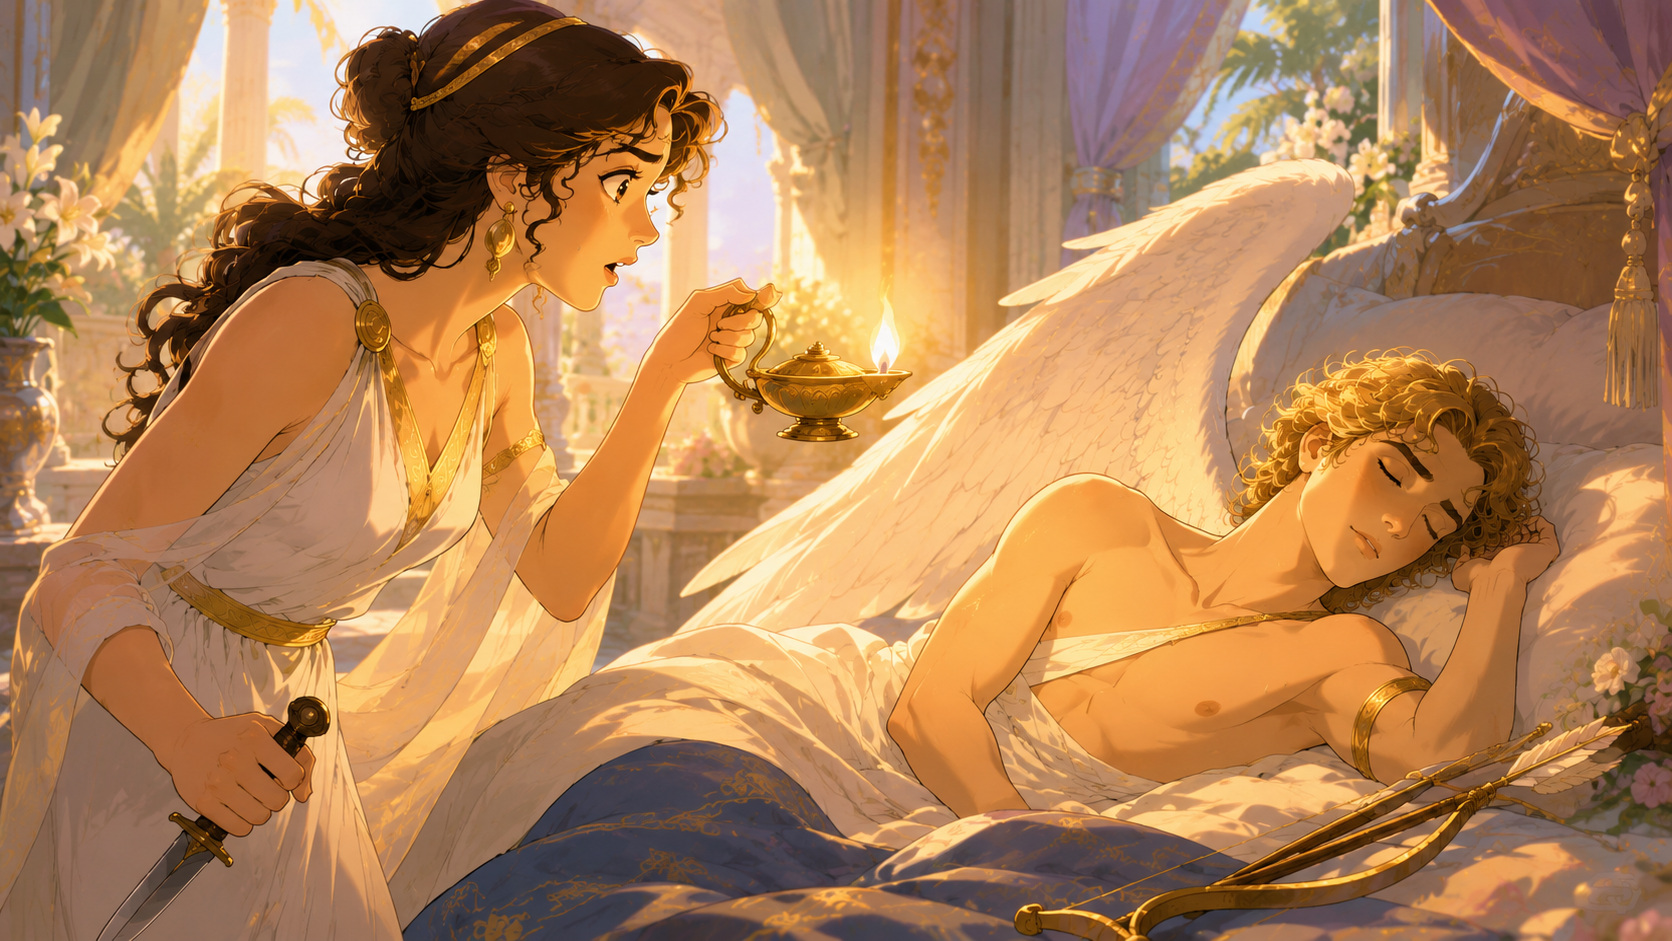
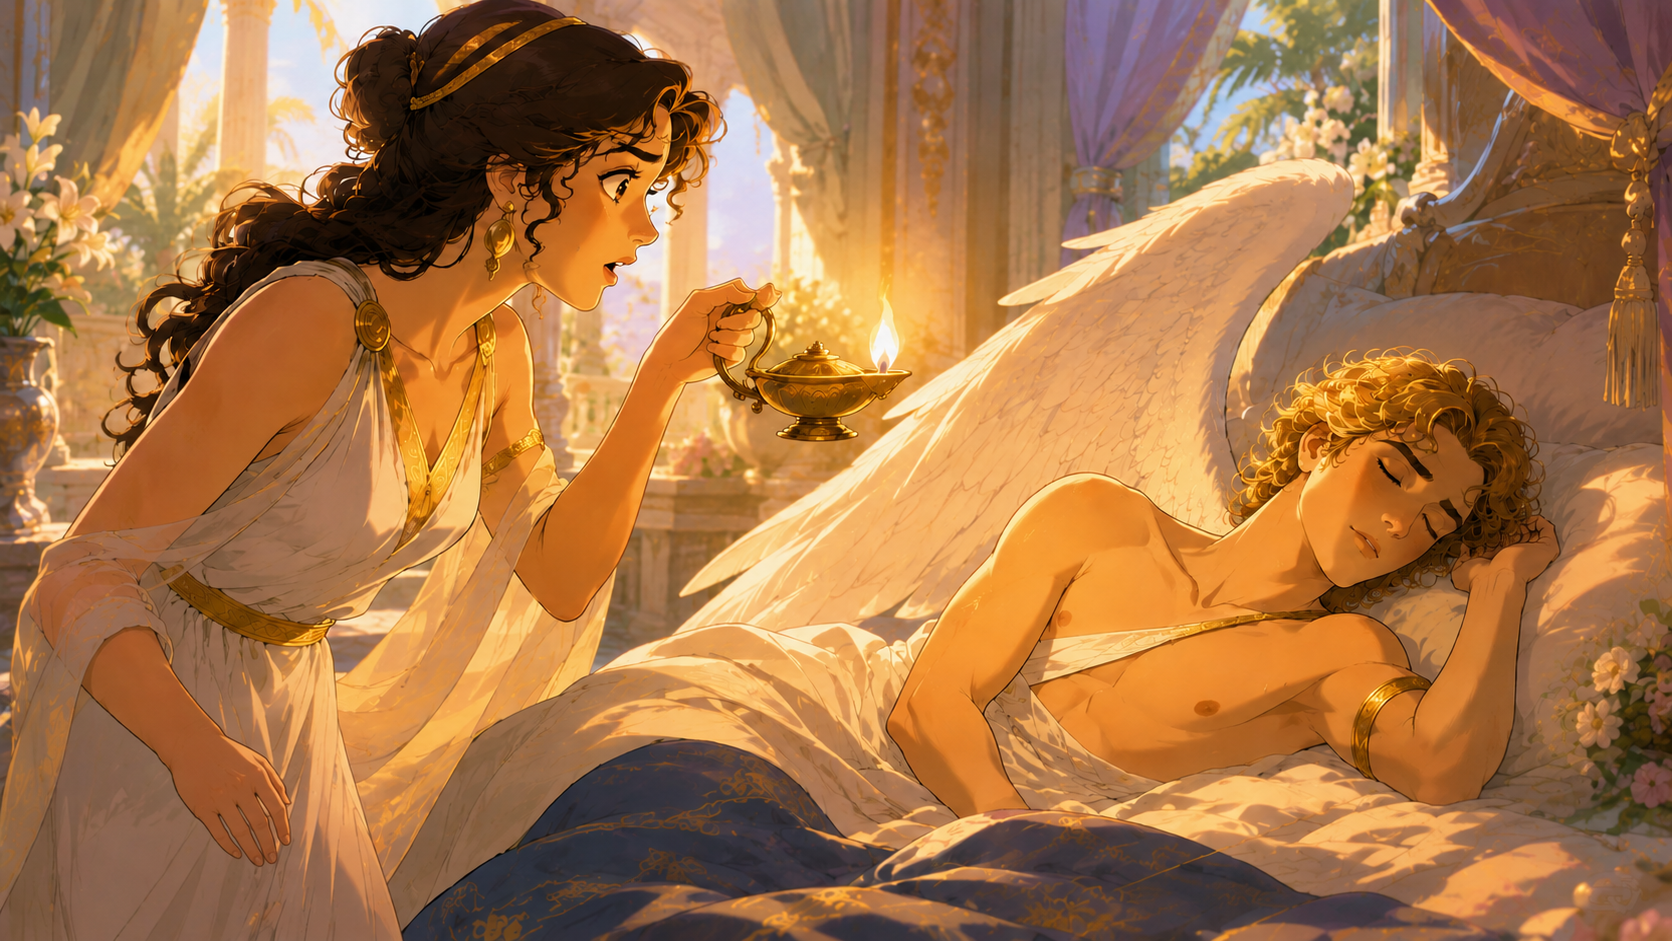
上传372

diff --git a/content/short/myth/12/index.md b/content/short/myth/12/index.md
@@ -10,49 +10,23 @@ date: 2026-08-29T16:37:01+08:00
 
 ![丘比特和普赛克](1.png)
 
-这惹怒了真正的美神维纳斯，她心想：一个凡人，竟敢和我相提并论！
+真正的美神维纳斯听了很不高兴，觉得凡人怎能和她相提并论，于是让儿子丘比特去惩罚她。
 
-于是，她对儿子丘比特说：“用你的金箭，让这个女人爱上世界上最卑贱、最丑陋的男人！”
+但当丘比特看到普赛克时，立即被她的美貌惊呆了，以致于一不小心被自己的金箭划伤。
 
-原来丘比特有两支箭：金箭和铅箭，被金箭射中，就会疯狂爱上第一个看到的人，被铅箭射中，则会厌恶爱情。
+这下他更深深爱上普赛克，原来被丘比特的金箭射中，就会爱上第一个看到的人。
 
-于是丘比特奉命去见普赛克。
+丘比特托西风之神帮忙，西风之神一阵风把普赛克带到丘比特的宫殿。
 
-但当丘比特看到普赛克时，立即被她的美貌惊呆了。
-
-当他反应过来，要去拿金箭时，由于心不在焉，被箭划伤了。
-
-这个时候他疯狂爱上普赛克，早把母亲的命令丢在脑后。
-
-但由于他是神，普赛克是凡人，他只能默默爱着她。
-
-奇怪的是普赛克虽美，却没人来求婚，于是她的父亲去求神明指引。
-
-根据神谕，普赛克要被送到山顶，嫁给一个怪物。
-
-她的父亲只好照做，把普赛克送上山。
-
-普赛克害怕极了。
-
-丘比特把这一切看在眼里，他托西风之神帮忙。
-
-西风之神，一阵风就把普赛克带到丘比特的宫殿。
-
-丘比特怕被普赛克认出来，趁着黑暗来见普赛克，并要求她不能偷看他的容貌。
+丘比特怕被普赛克认出来，天黑了才来和普赛克见面，并对她说：“答应我，任何时候都不要偷看我的容貌。”
 
 普赛克答应了。
 
-于是丘比特每晚都来和普赛克相会。
+有一天，普赛克的两位姐姐来看她，发现她住在比王宫还奢华的宫殿，忍不住嫉妒，于是挑拨说：“你那个丈夫不肯露脸，肯定是丑陋无比的怪物！毕竟神谕一早就有提示，你的丈夫是个怪物，说不定有一天会杀了你！”
 
-普赛克知道他很爱她，但却看不到他的脸，心中疑惑又好奇。
+普赛克听了又疑惑又害怕，忍不住想看清楚这个“丈夫”究竟是不是怪物。
 
-这时普赛克两位姐姐来看她，发现她住在比王宫还奢华的宫殿，忍不住嫉妒：妹妹比她们美丽，如今还住进这么豪华的宫殿！
-
-于是挑拨说：“你那个丈夫不肯露脸，肯定是丑陋无比的怪物！毕竟神谕一早就有提示，你的丈夫是个怪物，说不定有一天会杀了你！”
-
-普赛克本来就有疑虑，听姐姐们一说，她终于忍不住，想看清楚这个“丈夫”究竟是不是怪物。
-
-于是有一天，她趁丘比特已经熟睡，一手举着油灯，一手拿着刀，靠近丈夫。
+于是有一天，她趁丘比特熟睡，举着油灯，靠近丈夫。
 
 当灯光照到丈夫的脸庞时，普赛克惊呆了：原来丈夫不但不是怪物，还是个俊美无比的少年，她认出来正是爱神丘比特。
 
@@ -60,7 +34,7 @@ date: 2026-08-29T16:37:01+08:00
 
 丘比特一下就被烫醒了。
 
-他看到普赛克手中的油灯和刀，一下明白过来怎么回事。
+他一下明白过来怎么回事。
 
 他失望又悲伤地说：“没有信任，就没有爱。”
 
@@ -76,37 +50,13 @@ date: 2026-08-29T16:37:01+08:00
 
 她心想这四件事都不是凡人能办到的，也让她认清自己的身份，自觉离开儿子。
 
-第一件事，是分拣混杂在一起的不同谷物。
+但普赛克在其他人的帮助下，克服了困难，顺利完成任务。
 
-面对堆积如山的谷物，普赛克边手忙脚乱地分拣，边流泪，因为这是不可能完成的任务。
-
-这时一群蚂蚁经过，它们非常同情普赛克，自告奋勇替她完成了任务。
-
-第二件事，是从太阳金羊身上取得金羊毛。
-
-但太阳金羊凶猛无比，普赛克根本无法靠近。
-
-正当她不知道怎么办时，芦苇神告诉她只能智取，等晚上金羊熟睡，她就可以收集它们白天掉在草地，或挂在荆棘的金羊毛。
-
-于是她完成了第二件事。
-
-第三件事，是汲取冥河源头水源。冥河源头从高山悬崖倾泻而下，还有恶龙守着，凡人又怎么能拿到？
-
-这时，宙斯的金鹰经过，它帮助普赛克取得冥河水源。
-
-第四件事，是从冥界冥后珀耳塞福涅那里，取回一盒“美貌”。
-
-要进入冥界，意味着身为凡人的普赛克必须先死亡。
-
-正当普赛克绝望地准备从高塔跳下时，高塔说话了，它告诉普赛克人间通往冥界的入口，以及如何通关。
-
-就这样，普赛克进入冥界并取得冥后的一盒美貌。
-
-当她顺利回到人间，欢天喜地去见维纳斯的路上，她又想：这一盒美貌真的能让人更美丽吗？如果我也得到一些，说不定丘比特见到我时能原谅我，说不定更喜欢我。
+当她完成最后一件任务：取回一盒“美貌”，欢天喜地去见维纳斯时，她又想：这一盒美貌真的能让人更美丽吗？如果我也得到一些，说不定丘比特见到我时能原谅我，说不定更喜欢我。
 
 想到这里，她打开了盒子。
 
-但哪有什么美貌？盒子里装的是冥界的沉睡，普赛克立即倒下了，就像死亡一样昏睡过去。
+但哪有什么美貌？盒子里装的是永久的沉睡，普赛克立即倒下昏睡过去。
 
 幸亏这时丘比特赶到，他用神力让普赛克苏醒。
 
@@ -117,5 +67,3 @@ date: 2026-08-29T16:37:01+08:00
 普赛克喝下后，获得永生，成为灵魂女神，并和丘比特结了婚。
 
 丘比特和普赛克的爱情，象征爱与灵魂。
-
-
